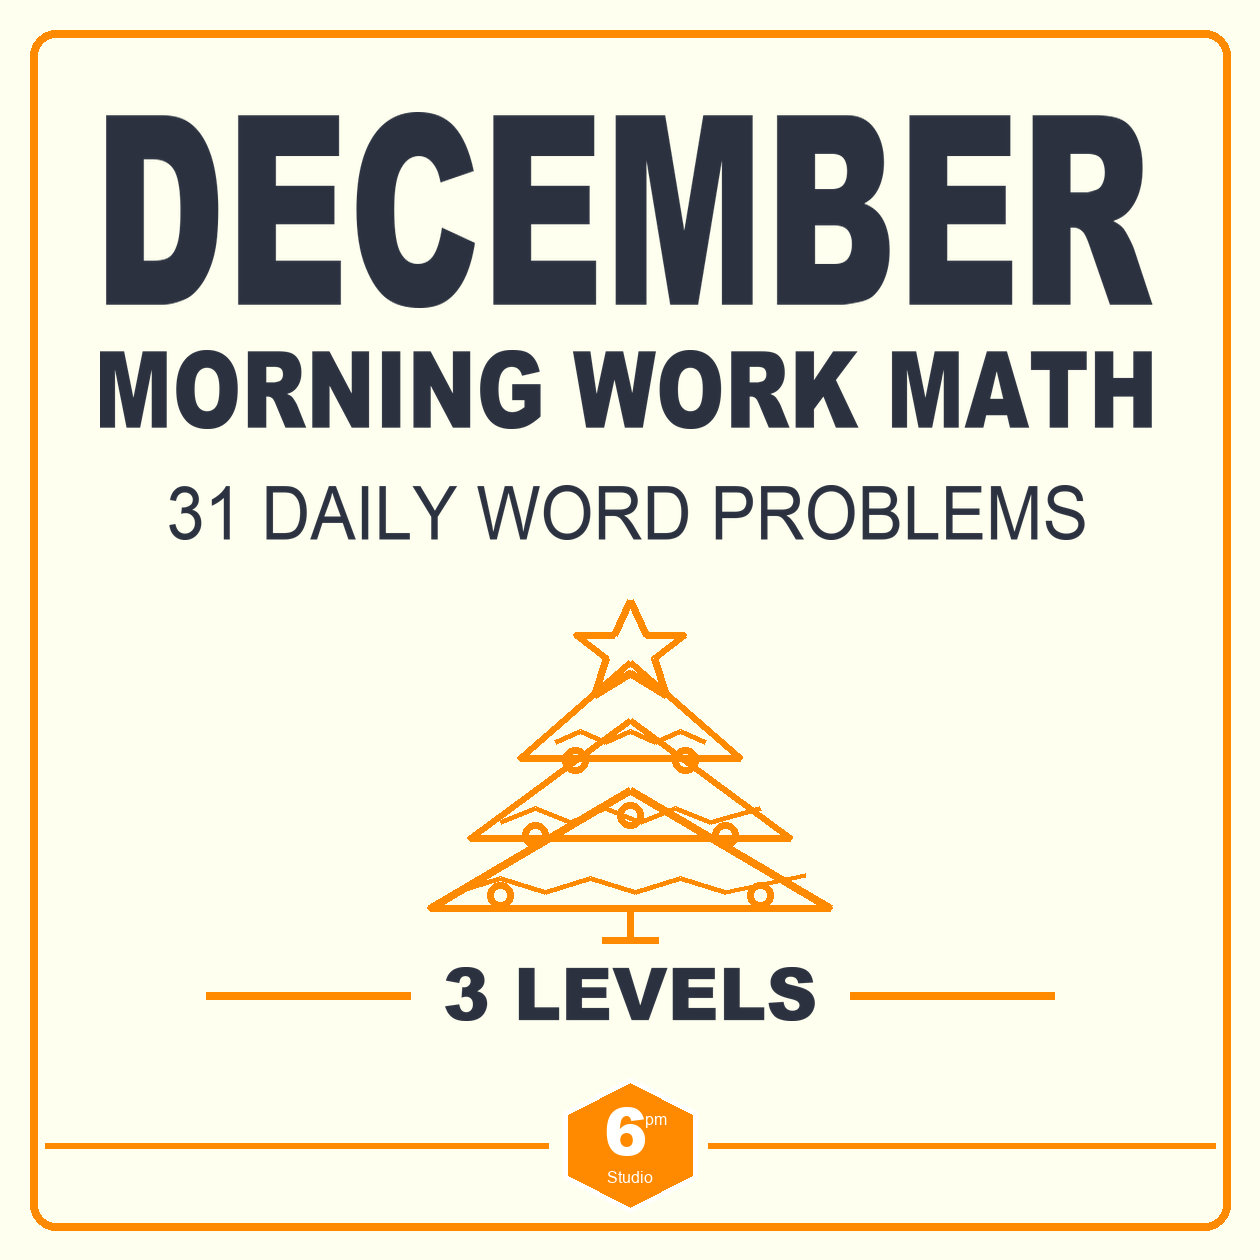
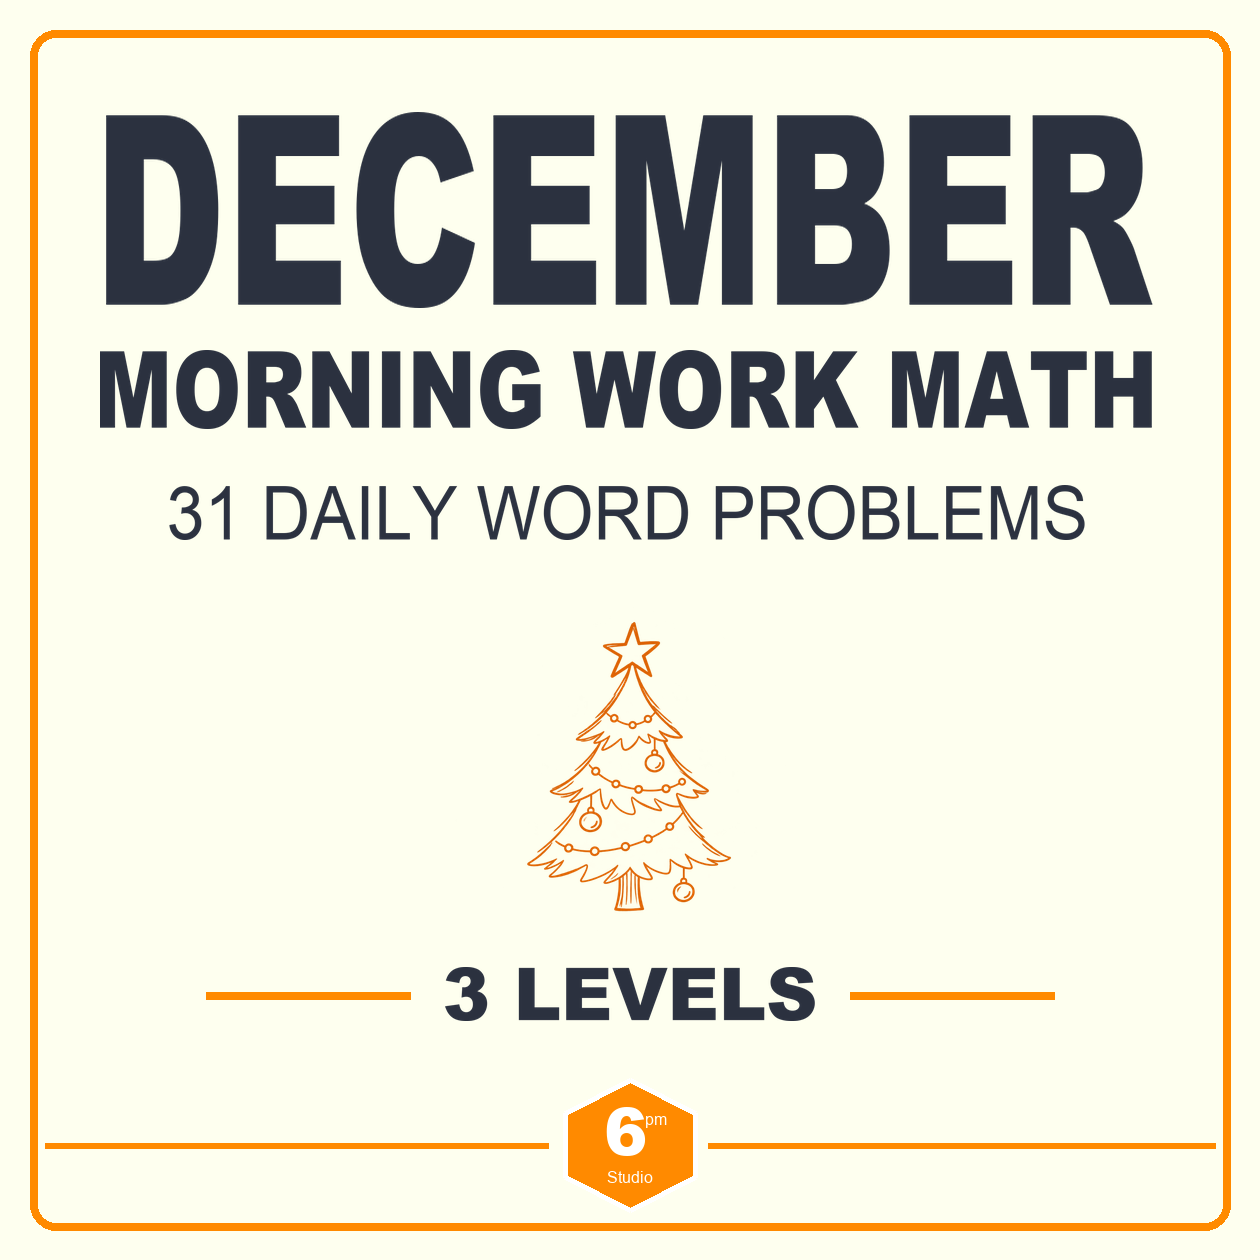
feat: use hand-drawn Christmas tree cover art

Changed region(s): [[0.3405, 0.4643, 0.65, 0.7738]]

diff --git a/scripts/generate_monthly_thumbnails.py b/scripts/generate_monthly_thumbnails.py
@@ -351,8 +351,11 @@ def draw_monthly_doodle(canvas, month=None, doodle_path=None):
     """Place the approved month-specific transparent doodle in the fixed art box."""
     if doodle_path and Path(doodle_path).exists():
         source = Image.open(doodle_path).convert("RGBA")
-        source.thumbnail((360, 330), Image.Resampling.LANCZOS)
-        canvas.alpha_composite(source, ((SIZE - source.width) // 2, 620))
+        alpha_bbox = source.getchannel("A").getbbox()
+        if alpha_bbox:
+            source = source.crop(alpha_bbox)
+        source.thumbnail((460, 350), Image.Resampling.LANCZOS)
+        canvas.alpha_composite(source, ((SIZE - source.width) // 2, 600))
         return
     if month and month.lower() == "december":
         december_doodle(canvas)
